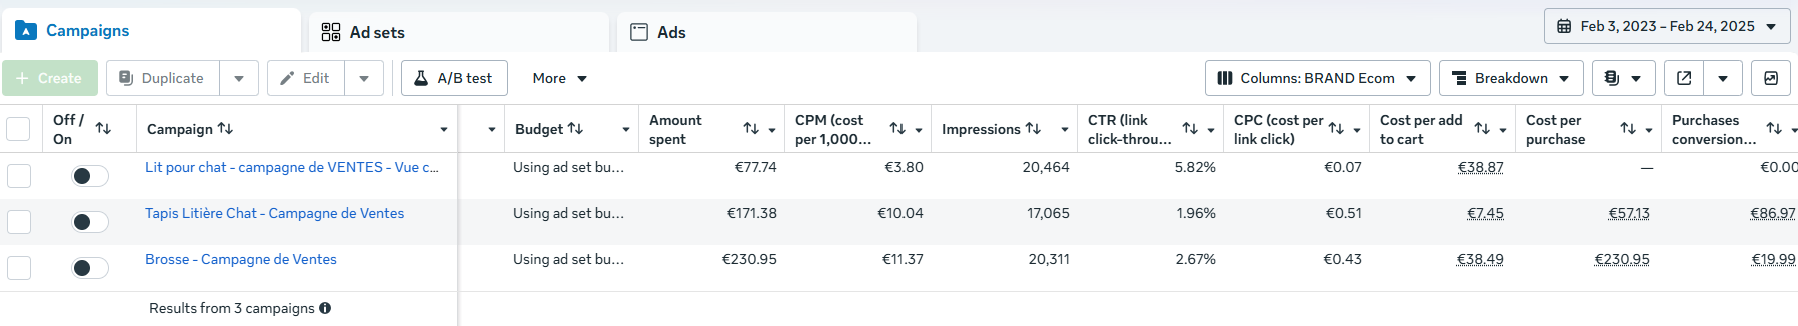
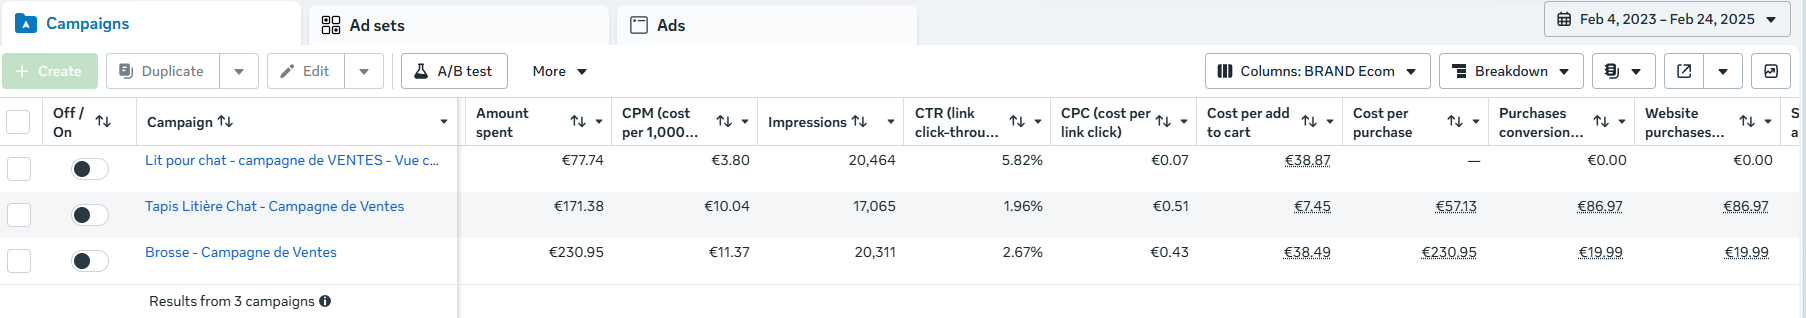
Soltie until meta ads

diff --git a/portfolios/single-portfolio-soltie.html b/portfolios/single-portfolio-soltie.html
@@ -132,72 +132,68 @@
                         </div>
                         <div class="col-lg-6 pb-5">
                             <div class="fs-6" data-aos="fade-up" data-aos-delay="300">
-                                <p>Analyza en chatgpt el excel exportado de ads manager con las campañas y que te haga un overall, explica que lo mas importante era que la pagina fuese vista y luego la venta de productos. https://adsmanager.facebook.com/adsmanager/manage/campaigns?act=302977378952793&business_id=326038616439047&nav_entry_point=fbs_ad_account_open_in_ads_manager_button&date=2023-02-03_2025-02-25&nav_source=facebook_business_suite
+                                <p>Soltie started as a small project to test cat products for a possible shop. I was contacted by someone that wanted to crate a Facebook page to test out different products for cats before incorporating them into their main store. I was responsible for creating the content, managing the page, and engaging with the audience to gather feedback on the products being tested. The goal was to create a fun and interactive platform where cat lovers could share their experiences and opinions on the products being tested.
                                 </p>
                             </div>
                         </div>
                     </div>
                     <div class="row">
-                                <h2>Overview</h2>
+                                <h2>Social Media</h2>
                         <div class="col-lg-8">
                             <div class="portfolio-image py-5">
                                 <figure>
-                                    <img src="../images/portfolio/ommflow/ommflow0.png" alt="portfolio" class="img-fluid">
+                                    <img src="../images/portfolio/soltie/soltie1.png" alt="portfolio" class="img-fluid">
                                 </figure>
-                                <figcaption>Above you can see the most recent screenshot of the Ommflow YouTube channel homepage.</figcaption>
+                                <figcaption>Soltie's test Facebook page for a cats. It took me 3 months to build a following of 500 people.</figcaption>
                             </div>
                         </div>
                         <div class="col-lg-4">
                             <div class="portfolio-image py-5">
                                 <figure>
-                                    <img src="../images/portfolio/ommflow/ommflow1.png" alt="portfolio" class="img-fluid">
+                                    <img src="../images/portfolio/soltie/soltie2.png" alt="portfolio" class="img-fluid">
                                 </figure>
-                                <figcaption>Above you can see the complete Media Kit for Ommflow. It was created to provide consistent branding and information for potential collaborators and sponsors.</figcaption>
+                                <figcaption>Some of the content created for Soltie's Facebook page to create engagement and build a community.</figcaption>
                             </div>
                         </div>
                     </div>
                     <div class="row">
-                        <h2>ADS - Recent Collaborations</h2>
-                        <div class="col-sm-12 col-lg-6">
+                        <h3>Increasing Engagement</h3>
+                        <div class="col-sm-12 col-lg-3">
                             <div class="portfolio-image py-5">
-                                <h3>CyberGhostVPN</h3>
                                 <figure>
-                                    <img src="../images/portfolio/ommflow/ommflow2-cyberghost.png" alt="portfolio" class="img-fluid">
+                                    <img src="../images/portfolio/soltie/soltie3.png" alt="portfolio" class="img-fluid">
                                 </figure>
-                                <figcaption>Cyberghost VPN collaboration with Ommflow.</figcaption>
+                                <figcaption>The post above was boosted gaining 8.6k likes. We spent 1€ a day per post that best performed in terms of engagement and reach.</figcaption>
                             </div>
                         </div>
-                        <div class="col-sm-12 col-lg-6">
+                        <div class="col-sm-12 col-lg-9">
                             <div class="portfolio-image py-5">
-                                <h3>UPDF</h3>
                                 <figure>
-                                    <img src="../images/portfolio/ommflow/ommflow3-updf.png" alt="portfolio" class="img-fluid">
+                                    <img src="../images/portfolio/soltie/soltie03.png" alt="portfolio" class="img-fluid">
                                 </figure>
-                                <figcaption>UPDF collaboration with Ommflow.</figcaption>
+                                <figcaption>Once they had liked the post we were able to invite them to follow the page, as you see in the image above all the invitations have been sent.</figcaption>
                             </div>
                         </div>
                     </div>
                     <div class="row">
-                        <h3>ADS - Personal Brand</h3>
-                            <p>As the Ommflow brand grew, I focused on creating a consistent visual identity across all platforms. This included designing a logo, choosing a color palette, and also developping a new product that would interest my audience, underwear for women, specifically designed for the Ommflow community. The brand would be called KAIVAU.</p>  
-                            <p>To see Kaivau's portfolio: <a href="./single-portfolio-kaivau.html"
-                                                target="_blank">Visit Kaivau</a></p>
-                        <div class="col-lg-7">
+                        <h2>Meta Ads</h2>
+                            <p>Once we increased our page followers we decided to test Meta Ads to test cat products and see how they performed in terms of engagement, reach and conversions.</p>  
+                        <div class="col-lg-6">
                             <div class="portfolio-image py-5">
-                                <h4>Kaivau Ad on Youtube</h4>
+                                <h3>Example of product</h3>
                                 <figure>
-                                    <img src="../images/portfolio/kaivau/kaivau4-ad.png" alt="portfolio" class="img-fluid">
+                                    <img src="../images/portfolio/soltie/soltie4.png" alt="portfolio" class="img-fluid">
                                 </figure>
-                                <figcaption>Above we can see the ad of Kaivau in the YouTube platform. In the image I'm showing the back of the product.</figcaption>
+                                <figcaption>Above you can see one of the product we tested in our Meta Ads campaign, the cat bruch.</figcaption>
                             </div>
                         </div>
-                        <div class="col-lg-5">
+                        <div class="col-lg-6">
                             <div class="portfolio-image py-5">
                                 <h4>Front</h4>
                                 <figure>
-                                    <img src="../images/portfolio/ommflow/ommflow-kaivau1.png" alt="portfolio" class="img-fluid">
+                                    <img src="../images/portfolio/soltie/soltie04.png" alt="portfolio" class="img-fluid">
                                 </figure>
-                                <figcaption>Above you can see the product displayed on the front with it's main characteristics in spanish.</figcaption>
+                                <figcaption>Above you can see one of the creatives for that product, in this case they are videos to show better the product features.</figcaption>
                             </div>
                         </div>
                     </div> 
@@ -205,7 +201,7 @@
                     <div class="row">
                         <div class="col-12">
                             <h3>Conclusion</h3>
-                            <p>This project taught me the importance of consistency, testing out different approaches, and adapting to feedback in order to achieve the desired results. Even though Kaivau is no longer active I thouroughly enjoyed the process of sharing it with my audience. Now I am currently working on a new project with Ommflow on social media as well as exploring new collaborations with brands.</p>
+                            <p>TE FALTA ANALIZAR LAS METRICAS QUE ESTAN EN CHAT GPT POR CAMPAÑA Y HACER UNA , LA PRIMERA, MAS EN DETALLE.</p>
                         </div>
                     </div>
                 </section>
